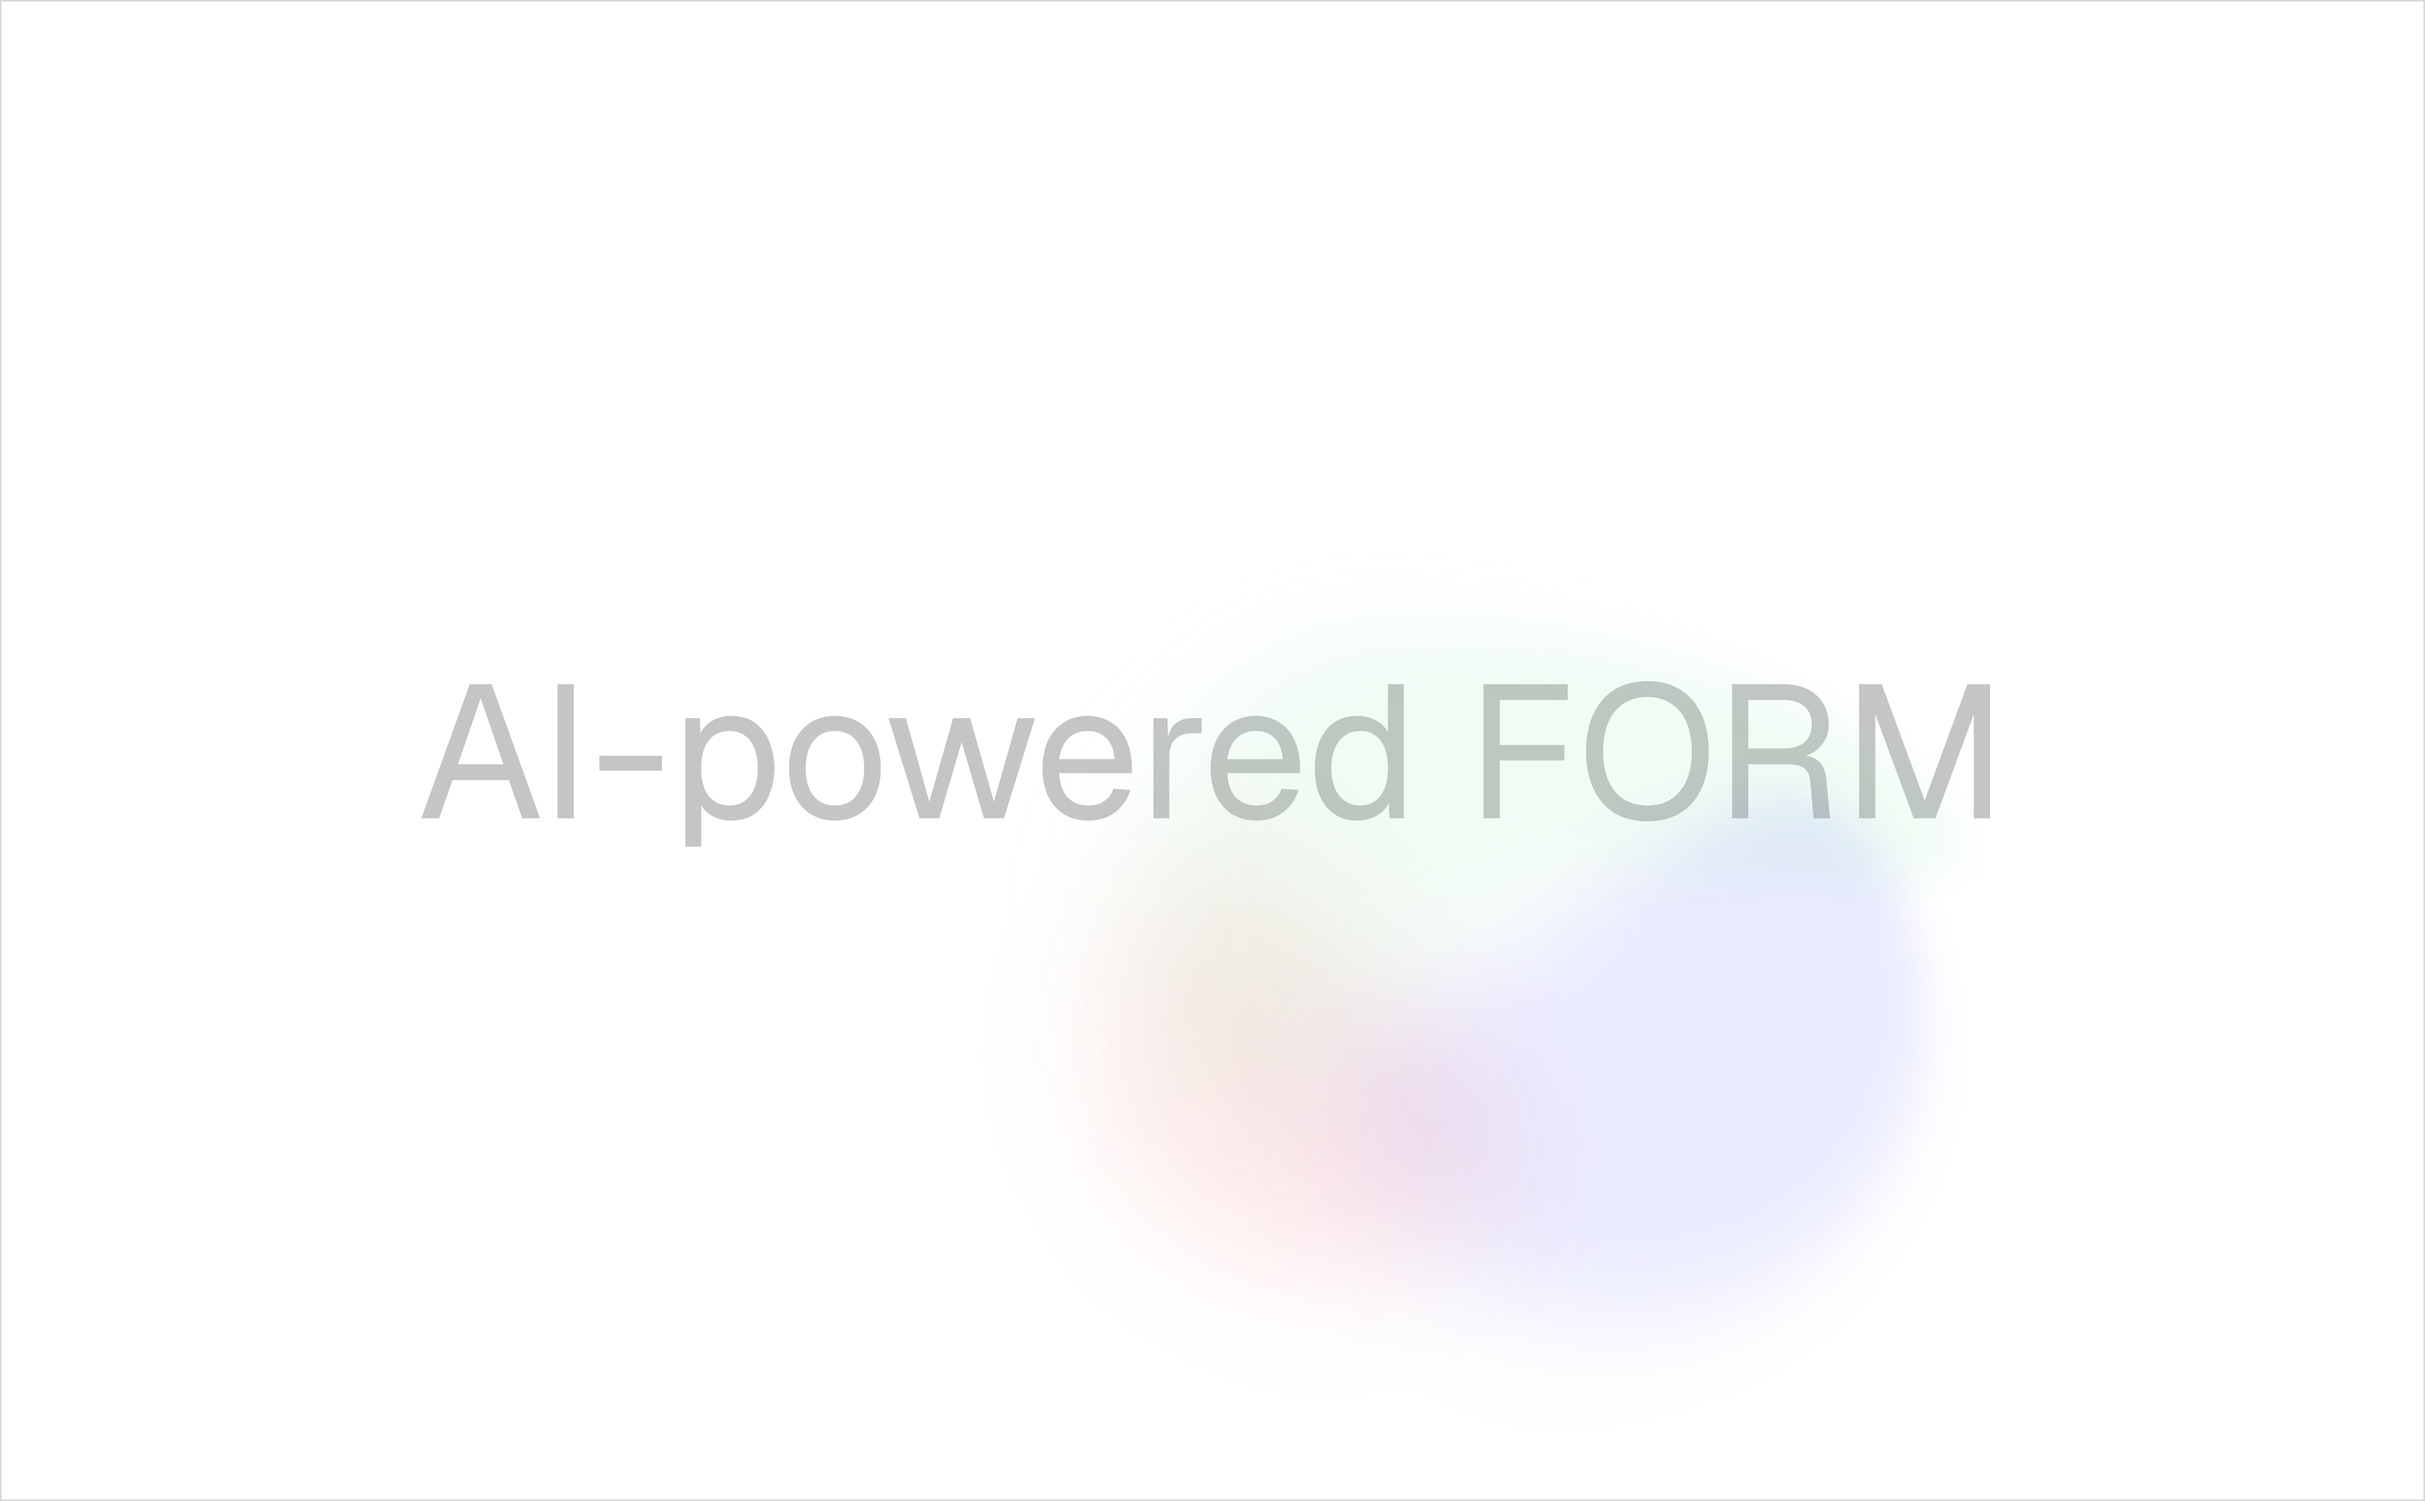
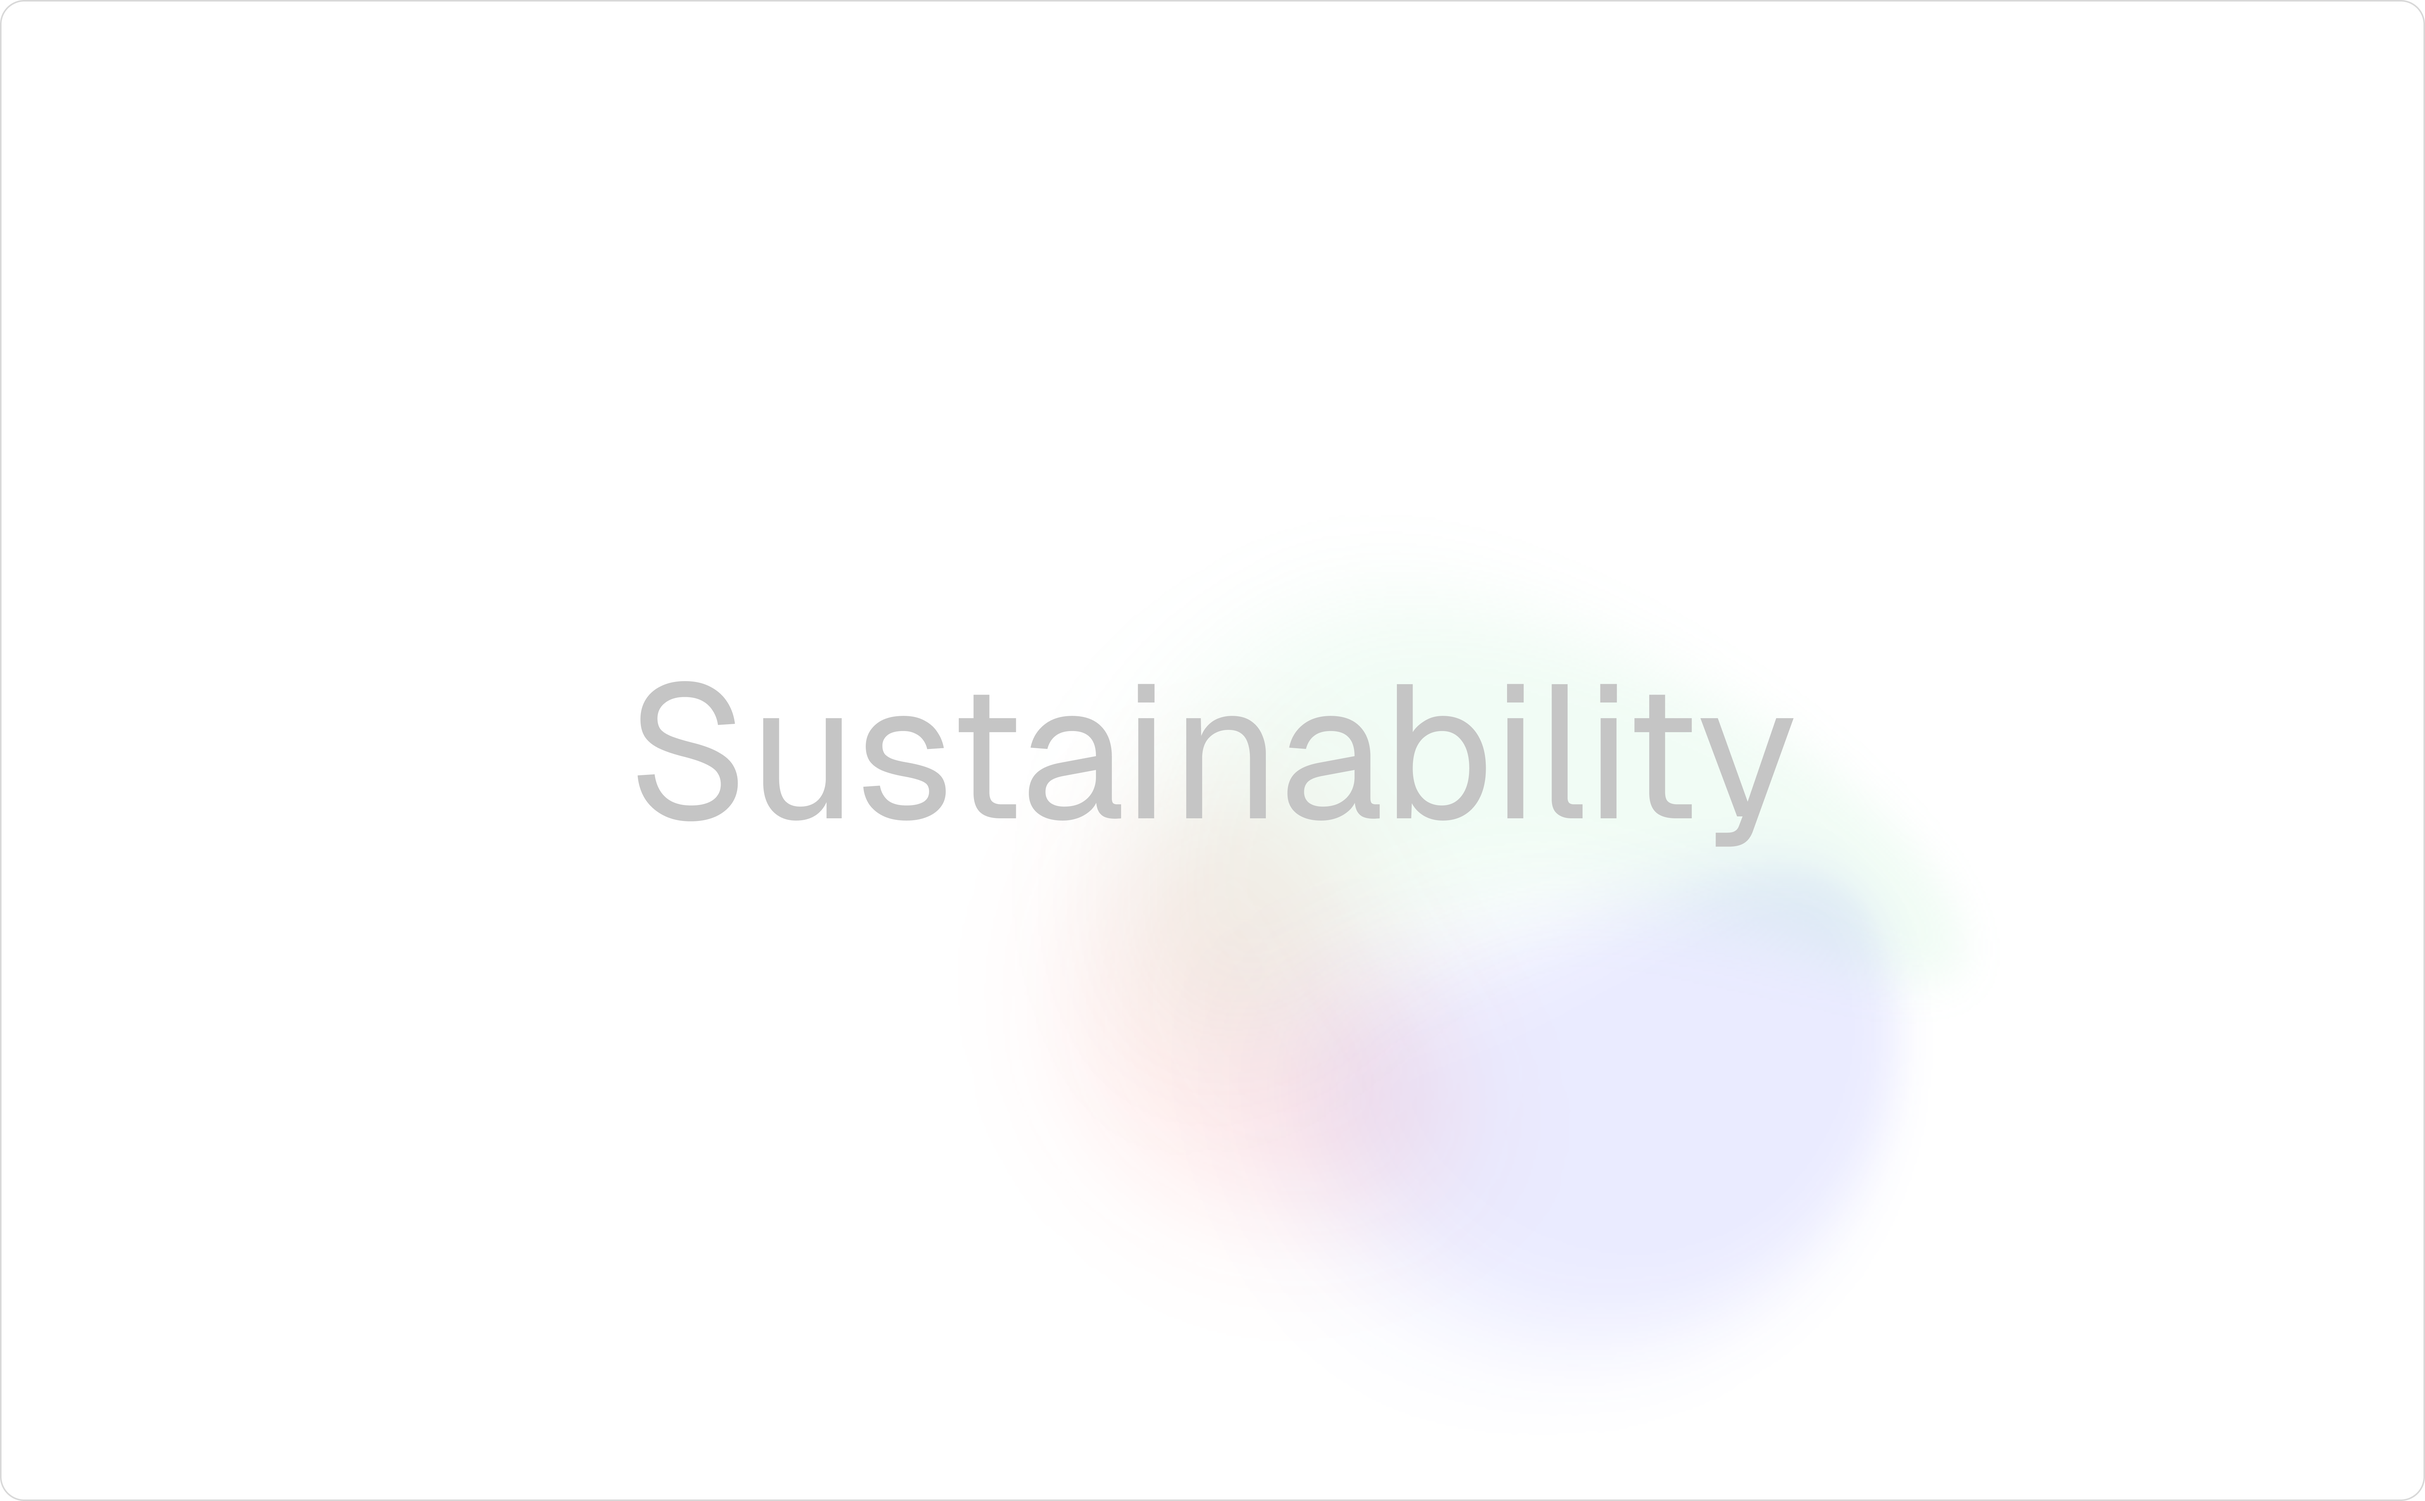
improve index and projects pages

diff --git a/src/sass/home.scss b/src/sass/home.scss
@@ -42,7 +42,6 @@
   &__top {
     display: flex;
     flex-direction: column;
-    backdrop-filter: blur(5px);
     height: 100%;
   }
 
@@ -65,8 +64,14 @@
   &__role {
     font-size: $s-24;
     font-weight: $fw-regular;
-    line-height: 1.5;
     color: $c-dark-gray;
+  }
+
+  &__focus {
+    color: $c-gray;
+    font-weight: $fw-light;
+    font-size: $s-18;
+    line-height: 1.5;
   }
 
   &__presentation-bottom {
@@ -133,37 +138,44 @@
 
     @media only screen and (min-width: 1024px) {
       flex-direction: row;
+      width: 85%;
     }
   }
 
   &__project-image {
     display: flex;
+    position: relative;
     flex-direction: column;
     gap: $s-8;
     width: 100%;
     height: auto;
     color: $c-dark-gray;
-    font-weight: $fw-light;
     font-size: $s-14;
 
     &:hover {
       opacity: 0.8;
+      cursor: pointer;
+    }
+  }
+
+  &__project-image-text {
+    display: flex;
+    flex-direction: column;
+    justify-content: space-between;
+    gap: $s-8;
+
+    @media only screen and (min-width: 1024px) {
+      flex-direction: row;
+      gap: $s-16;
     }
   }
 }
 
-.parent {
-  display: grid;
-  grid-template-columns: 1fr;
-}
-
-.parent div {
-  grid-row-start: 1;
-  grid-column-start: 1;
-}
-
-.child2 {
-  img {
-    padding-left: 70px;
-  }
+canvas {
+  display: block;
+  top: 0;
+  left: 0;
+  width: 100%;
+  height: 100%;
+  filter: blur(100px);
 }

diff --git a/src/sass/projects.scss b/src/sass/projects.scss
@@ -41,14 +41,14 @@
   }
 
   &__header {
-    font-size: $s-2;
+    font-size: $s-24;
     color: $c-dark-gray;
     font-weight: $fw-light;
     line-height: 100%;
-    width: 100%;
+    width: 70%;
 
     @media only screen and (min-width: 768px) {
-      font-size: $s-48;
+      font-size: $s-40;
     }
   }
 
@@ -56,7 +56,8 @@
     display: flex;
     flex-direction: row;
     gap: $s-4;
-    width: 100%;
+    width: 30%;
+    justify-content: end;
   }
 
   &__arrow {

diff --git a/src/sass/utils/_variables.scss b/src/sass/utils/_variables.scss
@@ -47,6 +47,10 @@ $fw-bold: 700;
 
 // font-weight
 
+.font-weight-light {
+  font-weight: $fw-light;
+}
+
 .font-weight-medium {
   font-weight: $fw-medium;
 }
@@ -69,6 +73,10 @@ $fw-bold: 700;
 
 .font-size-14 {
   font-size: $s-14;
+}
+
+.font-size-20 {
+  font-size: $s-20;
 }
 
 // display

diff --git a/src/sass/project.scss b/src/sass/project.scss
@@ -1,6 +1,4 @@
 .project {
-  margin-top: $s-48;
-
   &__content {
     color: $c-dark-gray;
     width: 100%;
@@ -43,5 +41,8 @@
   &__image-large {
     width: 100%;
     height: auto;
+    display: flex;
+    flex-direction: column;
+    justify-content: center;
   }
 }

diff --git a/src/sass/all.scss b/src/sass/all.scss
@@ -29,7 +29,7 @@ body {
   height: 100%;
 
   @media only screen and (min-width: 768px) {
-    margin: $s-72 $s-40;
+    margin: $s-56 $s-40;
   }
 }
 
